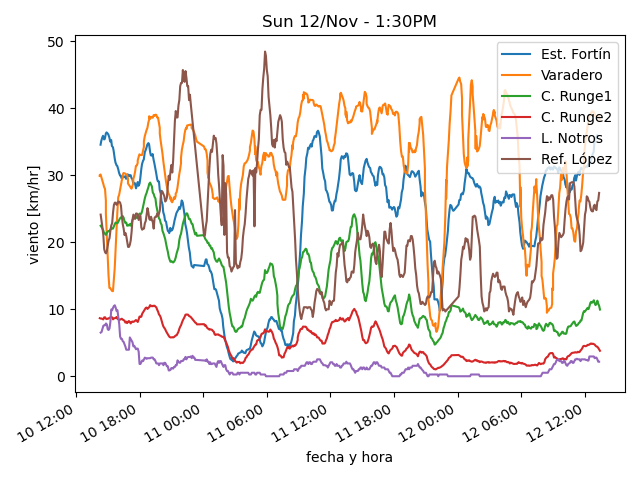
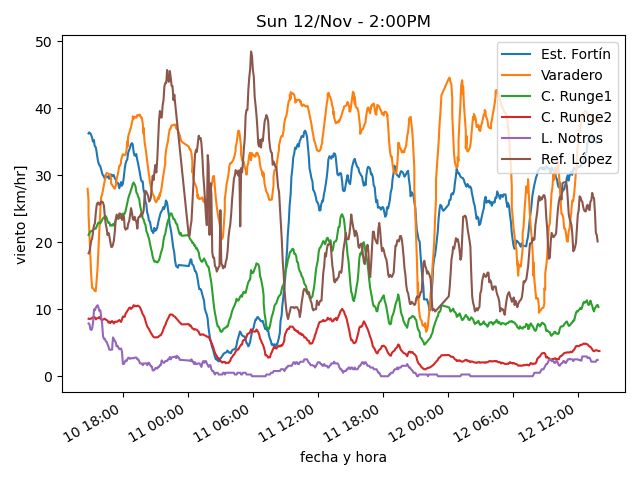
actualiza datos

diff --git a/estaciones/estacion6.html b/estaciones/estacion6.html
@@ -18,37 +18,37 @@
     </tr>
     <tr>
      <td class="stats_data">
-      1:20PM
+      1:50PM
      </td>
     </tr>
     <tr>
      <td class="stats_data">
-      -1.9⁰C
+      -1.8⁰C
      </td>
     </tr>
     <tr>
      <td class="stats_data">
-      -3.9⁰C
+      -3.7⁰C
      </td>
     </tr>
     <tr>
      <td class="stats_data">
-      86.0%
+      87.0%
      </td>
     </tr>
     <tr>
      <td class="stats_data">
-      1023.37hPa
+      1023.43hPa
      </td>
     </tr>
     <tr>
      <td class="stats_data">
-      11.3/25.7 km/hr ESE
+      6.4/25.7 km/hr E
      </td>
     </tr>
     <tr>
      <td class="stats_data">
-      1.02 / 1.02 mm
+      1.27 / 0.76 mm
      </td>
     </tr>
     <tr>
@@ -58,7 +58,7 @@
     </tr>
     <tr>
      <td class="stats_data">
-      900.0 W/m²
+      896.0 W/m²
      </td>
     </tr>
    </tbody>

diff --git a/estaciones/estacion4.html b/estaciones/estacion4.html
@@ -18,32 +18,32 @@
     </tr>
     <tr>
      <td class="stats_data">
-      1:24PM
+      1:59PM
      </td>
     </tr>
     <tr>
      <td class="stats_data">
-      5.0⁰C
+      5.6⁰C
      </td>
     </tr>
     <tr>
      <td class="stats_data">
-      -1.9⁰C
+      -1.4⁰C
      </td>
     </tr>
     <tr>
      <td class="stats_data">
-      60.8%
+      60.7%
      </td>
     </tr>
     <tr>
      <td class="stats_data">
-      1017.34hPa
+      1017.24hPa
      </td>
     </tr>
     <tr>
      <td class="stats_data">
-      2.3/3.5 km/hr WSW
+      2.8/3.9 km/hr S
      </td>
     </tr>
     <tr>
@@ -53,12 +53,12 @@
     </tr>
     <tr>
      <td class="stats_data">
-      1.0
+      3.0
      </td>
     </tr>
     <tr>
      <td class="stats_data">
-      204.4 W/m²
+      330.8 W/m²
      </td>
     </tr>
    </tbody>

diff --git a/estaciones/estacion2.html b/estaciones/estacion2.html
@@ -18,32 +18,32 @@
     </tr>
     <tr>
      <td class="stats_data">
-      1:24PM
+      1:54PM
      </td>
     </tr>
     <tr>
      <td class="stats_data">
-      6.1⁰C
+      6.0⁰C
      </td>
     </tr>
     <tr>
      <td class="stats_data">
-      1.5⁰C
+      0.9⁰C
      </td>
     </tr>
     <tr>
      <td class="stats_data">
-      72.5%
+      69.7%
      </td>
     </tr>
     <tr>
      <td class="stats_data">
-      1023.33hPa
+      1023.54hPa
      </td>
     </tr>
     <tr>
      <td class="stats_data">
-      29.7/35.0 km/hr NW
+      34.7/39.8 km/hr NW
      </td>
     </tr>
     <tr>
@@ -58,7 +58,7 @@
     </tr>
     <tr>
      <td class="stats_data">
-      980.4 W/m²
+      1011.1 W/m²
      </td>
     </tr>
    </tbody>

diff --git a/estaciones/estacion1.html b/estaciones/estacion1.html
@@ -18,7 +18,7 @@
     </tr>
     <tr>
      <td class="stats_data">
-      1:13PM
+      1:43PM
      </td>
     </tr>
     <tr>
@@ -28,12 +28,12 @@
     </tr>
     <tr>
      <td class="stats_data">
-      -2.9⁰C
+      -3.1⁰C
      </td>
     </tr>
     <tr>
      <td class="stats_data">
-      49.0%
+      48.5%
      </td>
     </tr>
     <tr>
@@ -43,7 +43,7 @@
     </tr>
     <tr>
      <td class="stats_data">
-      25.7/35.4 km/hr WNW
+      20.1/37.0 km/hr W
      </td>
     </tr>
     <tr>
@@ -53,12 +53,12 @@
     </tr>
     <tr>
      <td class="stats_data">
-      6.6
+      6.5
      </td>
     </tr>
     <tr>
      <td class="stats_data">
-      1007.0 W/m²
+      983.0 W/m²
      </td>
     </tr>
    </tbody>

diff --git a/estaciones/estacion3.html b/estaciones/estacion3.html
@@ -18,32 +18,32 @@
     </tr>
     <tr>
      <td class="stats_data">
-      1:24PM
+      1:54PM
      </td>
     </tr>
     <tr>
      <td class="stats_data">
-      4.7⁰C
+      5.1⁰C
      </td>
     </tr>
     <tr>
      <td class="stats_data">
-      -1.5⁰C
+      -0.9⁰C
      </td>
     </tr>
     <tr>
      <td class="stats_data">
-      64.3%
+      65.5%
      </td>
     </tr>
     <tr>
      <td class="stats_data">
-      1008.74hPa
+      1008.84hPa
      </td>
     </tr>
     <tr>
      <td class="stats_data">
-      7.2/10.9 km/hr WNW
+      6.1/8.9 km/hr WNW
      </td>
     </tr>
     <tr>

diff --git a/estaciones/estacion5.html b/estaciones/estacion5.html
@@ -18,17 +18,17 @@
     </tr>
     <tr>
      <td class="stats_data">
-      1:20PM
+      1:50PM
      </td>
     </tr>
     <tr>
      <td class="stats_data">
-      9.3⁰C
+      9.7⁰C
      </td>
     </tr>
     <tr>
      <td class="stats_data">
-      1.7⁰C
+      2.2⁰C
      </td>
     </tr>
     <tr>
@@ -38,12 +38,12 @@
     </tr>
     <tr>
      <td class="stats_data">
-      1019.81hPa
+      1019.57hPa
      </td>
     </tr>
     <tr>
      <td class="stats_data">
-      0.0/2.6 km/hr N
+      0.0/3.5 km/hr N
      </td>
     </tr>
     <tr>
